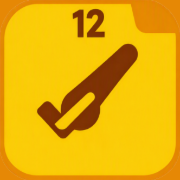
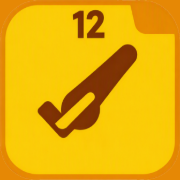
★オレンジの枠を途切れさせない★（司さんの指摘）
枠が途切れて見えていた原因は2つ。両方 直した。
 ① ★枠を切っていた★（外周のぼかしを避けようと 8px 内側から切っていた）
    → ★枠は1pxも切らない★。カードを丸ごと使う
 ② ★外側が枠と違う色だった★（白＋白へ溶けるぼかしが残り、境目が線に見えた）
    → 外側を ★縁と同じ橙 #E68805★ に置き換え、下地も同じ橙
      ＝ 枠と外側がつながって、途切れて見えない

正方形にするのは ★縦に約10%伸ばす★（枠の太さが四辺そろう）。
 ・比率そのままだと ★上下だけ帯が厚くなる★ ので、並べて見比べて伸ばす方を採った
 ・切る案は「12」が欠けるので却下（1.16倍で実測ずみ）

検査を強くした（8点 → ★端を1周ぐるっと★）:
 ・実測 5枚の端 ★5712点／白 0点・薄い色 0点★
 ・「薄い」は ★青の量と明るさ★で見る（この絵は青がほぼ無い。
   実際に残っていた #EEBD79 を捕まえられる事を自己確認に入れた）

node tests/run.js → 全部 緑（32本）

Claude-Session: https://claude.ai/code/session_01XubSutqQm3uxgvTByL8qyQ

diff --git a/index.html b/index.html
@@ -4,24 +4,24 @@
     <meta charset="utf-8" />
     <meta name="viewport" content="width=device-width,initial-scale=1,viewport-fit=cover" />
     <title>Timeally — 一覧</title>
-    <link rel="icon" href="icons/favicon-32.png?v=25fb4ac4" sizes="32x32" />
-    <link rel="apple-touch-icon" href="icons/apple-touch-icon.png?v=25fb4ac4" />
+    <link rel="icon" href="icons/favicon-32.png?v=eb03f239" sizes="32x32" />
+    <link rel="apple-touch-icon" href="icons/apple-touch-icon.png?v=eb03f239" />
     <meta name="apple-mobile-web-app-capable" content="yes" />
     <meta name="apple-mobile-web-app-status-bar-style" content="default" />
     <meta name="apple-mobile-web-app-title" content="Timeally" />
     <meta name="theme-color" content="#FFC72C" />
-    <link rel="manifest" href="manifest.json?v=25fb4ac4" />
+    <link rel="manifest" href="manifest.json?v=eb03f239" />
     <link rel="preconnect" href="https://fonts.googleapis.com" />
     <link rel="preconnect" href="https://fonts.gstatic.com" crossorigin />
     <link href="https://fonts.googleapis.com/css2?family=DM+Mono:wght@400;500&family=Noto+Sans+JP:wght@400;700&display=swap" rel="stylesheet" />
-    <link rel="stylesheet" href="css/timeally.css?v=25fb4ac4" />
+    <link rel="stylesheet" href="css/timeally.css?v=eb03f239" />
   </head>
   <body>
     <div class="tc-appbar">
       <h1>Timeally</h1>
       <span class="tc-sub" id="coname"></span>
       <span class="tc-spacer"></span>
-      <a class="tc-btn sub" href="shukei.html?v=25fb4ac4">集計・印刷</a>
+      <a class="tc-btn sub" href="shukei.html?v=eb03f239">集計・印刷</a>
     </div>
 
     <div class="tc-wrap" id="main" hidden>
@@ -108,17 +108,17 @@
       </section>
     </div>
     <script src="https://cdn.jsdelivr.net/npm/@supabase/supabase-js@2"></script>
-    <script src="js/supa-config.js?v=25fb4ac4"></script>
-    <script src="js/env-badge.js?v=25fb4ac4"></script>
-    <script src="lib/tc-law.js?v=25fb4ac4"></script>
-    <script src="lib/tc-calc.js?v=25fb4ac4"></script>
-    <script src="lib/tc-csv.js?v=25fb4ac4"></script>
-    <script src="lib/tc-name.js?v=25fb4ac4"></script>
-    <script src="lib/qr.js?v=25fb4ac4"></script>
-    <script src="js/file-out.js?v=25fb4ac4"></script>
-    <script src="js/tc-ui.js?v=25fb4ac4"></script>
-    <script src="js/tc-db.js?v=25fb4ac4"></script>
-    <script src="js/owner-app.js?v=25fb4ac4"></script>
+    <script src="js/supa-config.js?v=eb03f239"></script>
+    <script src="js/env-badge.js?v=eb03f239"></script>
+    <script src="lib/tc-law.js?v=eb03f239"></script>
+    <script src="lib/tc-calc.js?v=eb03f239"></script>
+    <script src="lib/tc-csv.js?v=eb03f239"></script>
+    <script src="lib/tc-name.js?v=eb03f239"></script>
+    <script src="lib/qr.js?v=eb03f239"></script>
+    <script src="js/file-out.js?v=eb03f239"></script>
+    <script src="js/tc-ui.js?v=eb03f239"></script>
+    <script src="js/tc-db.js?v=eb03f239"></script>
+    <script src="js/owner-app.js?v=eb03f239"></script>
     <script>
       OwnerApp.startIndex();
     </script>

diff --git a/shukei.html b/shukei.html
@@ -4,24 +4,24 @@
     <meta charset="utf-8" />
     <meta name="viewport" content="width=device-width,initial-scale=1,viewport-fit=cover" />
     <title>Timeally — 集計・印刷</title>
-    <link rel="icon" href="icons/favicon-32.png?v=25fb4ac4" sizes="32x32" />
-    <link rel="apple-touch-icon" href="icons/apple-touch-icon.png?v=25fb4ac4" />
+    <link rel="icon" href="icons/favicon-32.png?v=eb03f239" sizes="32x32" />
+    <link rel="apple-touch-icon" href="icons/apple-touch-icon.png?v=eb03f239" />
     <meta name="apple-mobile-web-app-capable" content="yes" />
     <meta name="apple-mobile-web-app-status-bar-style" content="default" />
     <meta name="apple-mobile-web-app-title" content="Timeally" />
     <meta name="theme-color" content="#FFC72C" />
-    <link rel="manifest" href="manifest.json?v=25fb4ac4" />
+    <link rel="manifest" href="manifest.json?v=eb03f239" />
     <link rel="preconnect" href="https://fonts.googleapis.com" />
     <link rel="preconnect" href="https://fonts.gstatic.com" crossorigin />
     <link href="https://fonts.googleapis.com/css2?family=DM+Mono:wght@400;500&family=Noto+Sans+JP:wght@400;700&display=swap" rel="stylesheet" />
-    <link rel="stylesheet" href="css/timeally.css?v=25fb4ac4" />
+    <link rel="stylesheet" href="css/timeally.css?v=eb03f239" />
   </head>
   <body>
     <div class="tc-appbar">
       <h1>Timeally</h1>
       <span class="tc-sub">集計・印刷</span>
       <span class="tc-spacer"></span>
-      <a class="tc-btn sub" href="index.html?v=25fb4ac4">一覧へ</a>
+      <a class="tc-btn sub" href="index.html?v=eb03f239">一覧へ</a>
     </div>
 
     <div class="tc-wrap" id="main" hidden>
@@ -54,16 +54,16 @@
       </div>
     </div>
     <script src="https://cdn.jsdelivr.net/npm/@supabase/supabase-js@2"></script>
-    <script src="js/supa-config.js?v=25fb4ac4"></script>
-    <script src="js/env-badge.js?v=25fb4ac4"></script>
-    <script src="lib/tc-law.js?v=25fb4ac4"></script>
-    <script src="lib/tc-calc.js?v=25fb4ac4"></script>
-    <script src="lib/tc-csv.js?v=25fb4ac4"></script>
-    <script src="lib/tc-name.js?v=25fb4ac4"></script>
-    <script src="js/file-out.js?v=25fb4ac4"></script>
-    <script src="js/tc-ui.js?v=25fb4ac4"></script>
-    <script src="js/tc-db.js?v=25fb4ac4"></script>
-    <script src="js/owner-app.js?v=25fb4ac4"></script>
+    <script src="js/supa-config.js?v=eb03f239"></script>
+    <script src="js/env-badge.js?v=eb03f239"></script>
+    <script src="lib/tc-law.js?v=eb03f239"></script>
+    <script src="lib/tc-calc.js?v=eb03f239"></script>
+    <script src="lib/tc-csv.js?v=eb03f239"></script>
+    <script src="lib/tc-name.js?v=eb03f239"></script>
+    <script src="js/file-out.js?v=eb03f239"></script>
+    <script src="js/tc-ui.js?v=eb03f239"></script>
+    <script src="js/tc-db.js?v=eb03f239"></script>
+    <script src="js/owner-app.js?v=eb03f239"></script>
     <script>
       OwnerApp.startShukei();
     </script>

diff --git a/login.html b/login.html
@@ -4,17 +4,17 @@
     <meta charset="utf-8" />
     <meta name="viewport" content="width=device-width,initial-scale=1,viewport-fit=cover" />
     <title>Timeally — 会社の入口</title>
-    <link rel="icon" href="icons/favicon-32.png?v=25fb4ac4" sizes="32x32" />
-    <link rel="apple-touch-icon" href="icons/apple-touch-icon.png?v=25fb4ac4" />
+    <link rel="icon" href="icons/favicon-32.png?v=eb03f239" sizes="32x32" />
+    <link rel="apple-touch-icon" href="icons/apple-touch-icon.png?v=eb03f239" />
     <meta name="apple-mobile-web-app-capable" content="yes" />
     <meta name="apple-mobile-web-app-status-bar-style" content="default" />
     <meta name="apple-mobile-web-app-title" content="Timeally" />
     <meta name="theme-color" content="#FFC72C" />
-    <link rel="manifest" href="manifest.json?v=25fb4ac4" />
+    <link rel="manifest" href="manifest.json?v=eb03f239" />
     <link rel="preconnect" href="https://fonts.googleapis.com" />
     <link rel="preconnect" href="https://fonts.gstatic.com" crossorigin />
     <link href="https://fonts.googleapis.com/css2?family=DM+Mono:wght@400;500&family=Noto+Sans+JP:wght@400;700&display=swap" rel="stylesheet" />
-    <link rel="stylesheet" href="css/timeally.css?v=25fb4ac4" />
+    <link rel="stylesheet" href="css/timeally.css?v=eb03f239" />
   </head>
   <body>
     <div class="tc-appbar">
@@ -43,11 +43,11 @@
     </div>
 
     <script src="https://cdn.jsdelivr.net/npm/@supabase/supabase-js@2"></script>
-    <script src="js/supa-config.js?v=25fb4ac4"></script>
-    <script src="js/env-badge.js?v=25fb4ac4"></script>
-    <script src="js/tc-ui.js?v=25fb4ac4"></script>
-    <script src="js/tc-db.js?v=25fb4ac4"></script>
-    <script src="js/owner-app.js?v=25fb4ac4"></script>
+    <script src="js/supa-config.js?v=eb03f239"></script>
+    <script src="js/env-badge.js?v=eb03f239"></script>
+    <script src="js/tc-ui.js?v=eb03f239"></script>
+    <script src="js/tc-db.js?v=eb03f239"></script>
+    <script src="js/owner-app.js?v=eb03f239"></script>
     <script>
       OwnerApp.startLogin();
     </script>

diff --git a/kiroku.html b/kiroku.html
@@ -5,8 +5,8 @@
     <meta name="viewport" content="width=device-width,initial-scale=1,viewport-fit=cover" />
     <meta name="format-detection" content="telephone=no" />
     <title>Timeally — 自分の記録</title>
-    <link rel="icon" href="icons/favicon-32.png?v=25fb4ac4" sizes="32x32" />
-    <link rel="apple-touch-icon" href="icons/apple-touch-icon.png?v=25fb4ac4" />
+    <link rel="icon" href="icons/favicon-32.png?v=eb03f239" sizes="32x32" />
+    <link rel="apple-touch-icon" href="icons/apple-touch-icon.png?v=eb03f239" />
     <meta name="apple-mobile-web-app-capable" content="yes" />
     <meta name="apple-mobile-web-app-status-bar-style" content="default" />
     <meta name="apple-mobile-web-app-title" content="Timeally" />
@@ -14,7 +14,7 @@
     <link rel="preconnect" href="https://fonts.googleapis.com" />
     <link rel="preconnect" href="https://fonts.gstatic.com" crossorigin />
     <link href="https://fonts.googleapis.com/css2?family=DM+Mono:wght@400;500&family=Noto+Sans+JP:wght@400;700&display=swap" rel="stylesheet" />
-    <link rel="stylesheet" href="css/timeally.css?v=25fb4ac4" />
+    <link rel="stylesheet" href="css/timeally.css?v=eb03f239" />
   </head>
   <body>
     <div class="tc-appbar">
@@ -71,11 +71,11 @@
     </div>
 
     <script src="https://cdn.jsdelivr.net/npm/@supabase/supabase-js@2"></script>
-    <script src="js/supa-config.js?v=25fb4ac4"></script>
-    <script src="js/env-badge.js?v=25fb4ac4"></script>
-    <script src="js/tc-ui.js?v=25fb4ac4"></script>
-    <script src="js/tc-db.js?v=25fb4ac4"></script>
-    <script src="js/emp-app.js?v=25fb4ac4"></script>
+    <script src="js/supa-config.js?v=eb03f239"></script>
+    <script src="js/env-badge.js?v=eb03f239"></script>
+    <script src="js/tc-ui.js?v=eb03f239"></script>
+    <script src="js/tc-db.js?v=eb03f239"></script>
+    <script src="js/emp-app.js?v=eb03f239"></script>
     <script>
       EmpApp.startKiroku();
     </script>

diff --git a/punch.html b/punch.html
@@ -5,8 +5,8 @@
     <meta name="viewport" content="width=device-width,initial-scale=1,viewport-fit=cover" />
     <meta name="format-detection" content="telephone=no" />
     <title>Timeally — 打刻</title>
-    <link rel="icon" href="icons/favicon-32.png?v=25fb4ac4" sizes="32x32" />
-    <link rel="apple-touch-icon" href="icons/apple-touch-icon.png?v=25fb4ac4" />
+    <link rel="icon" href="icons/favicon-32.png?v=eb03f239" sizes="32x32" />
+    <link rel="apple-touch-icon" href="icons/apple-touch-icon.png?v=eb03f239" />
     <meta name="apple-mobile-web-app-capable" content="yes" />
     <meta name="apple-mobile-web-app-status-bar-style" content="default" />
     <meta name="apple-mobile-web-app-title" content="Timeally" />
@@ -14,7 +14,7 @@
     <link rel="preconnect" href="https://fonts.googleapis.com" />
     <link rel="preconnect" href="https://fonts.gstatic.com" crossorigin />
     <link href="https://fonts.googleapis.com/css2?family=DM+Mono:wght@400;500&family=Noto+Sans+JP:wght@400;700&display=swap" rel="stylesheet" />
-    <link rel="stylesheet" href="css/timeally.css?v=25fb4ac4" />
+    <link rel="stylesheet" href="css/timeally.css?v=eb03f239" />
   </head>
   <body>
     <div class="tc-appbar">
@@ -72,11 +72,11 @@
     </div>
 
     <script src="https://cdn.jsdelivr.net/npm/@supabase/supabase-js@2"></script>
-    <script src="js/supa-config.js?v=25fb4ac4"></script>
-    <script src="js/env-badge.js?v=25fb4ac4"></script>
-    <script src="js/tc-ui.js?v=25fb4ac4"></script>
-    <script src="js/tc-db.js?v=25fb4ac4"></script>
-    <script src="js/emp-app.js?v=25fb4ac4"></script>
+    <script src="js/supa-config.js?v=eb03f239"></script>
+    <script src="js/env-badge.js?v=eb03f239"></script>
+    <script src="js/tc-ui.js?v=eb03f239"></script>
+    <script src="js/tc-db.js?v=eb03f239"></script>
+    <script src="js/emp-app.js?v=eb03f239"></script>
     <script>
       EmpApp.startPunch();
     </script>
